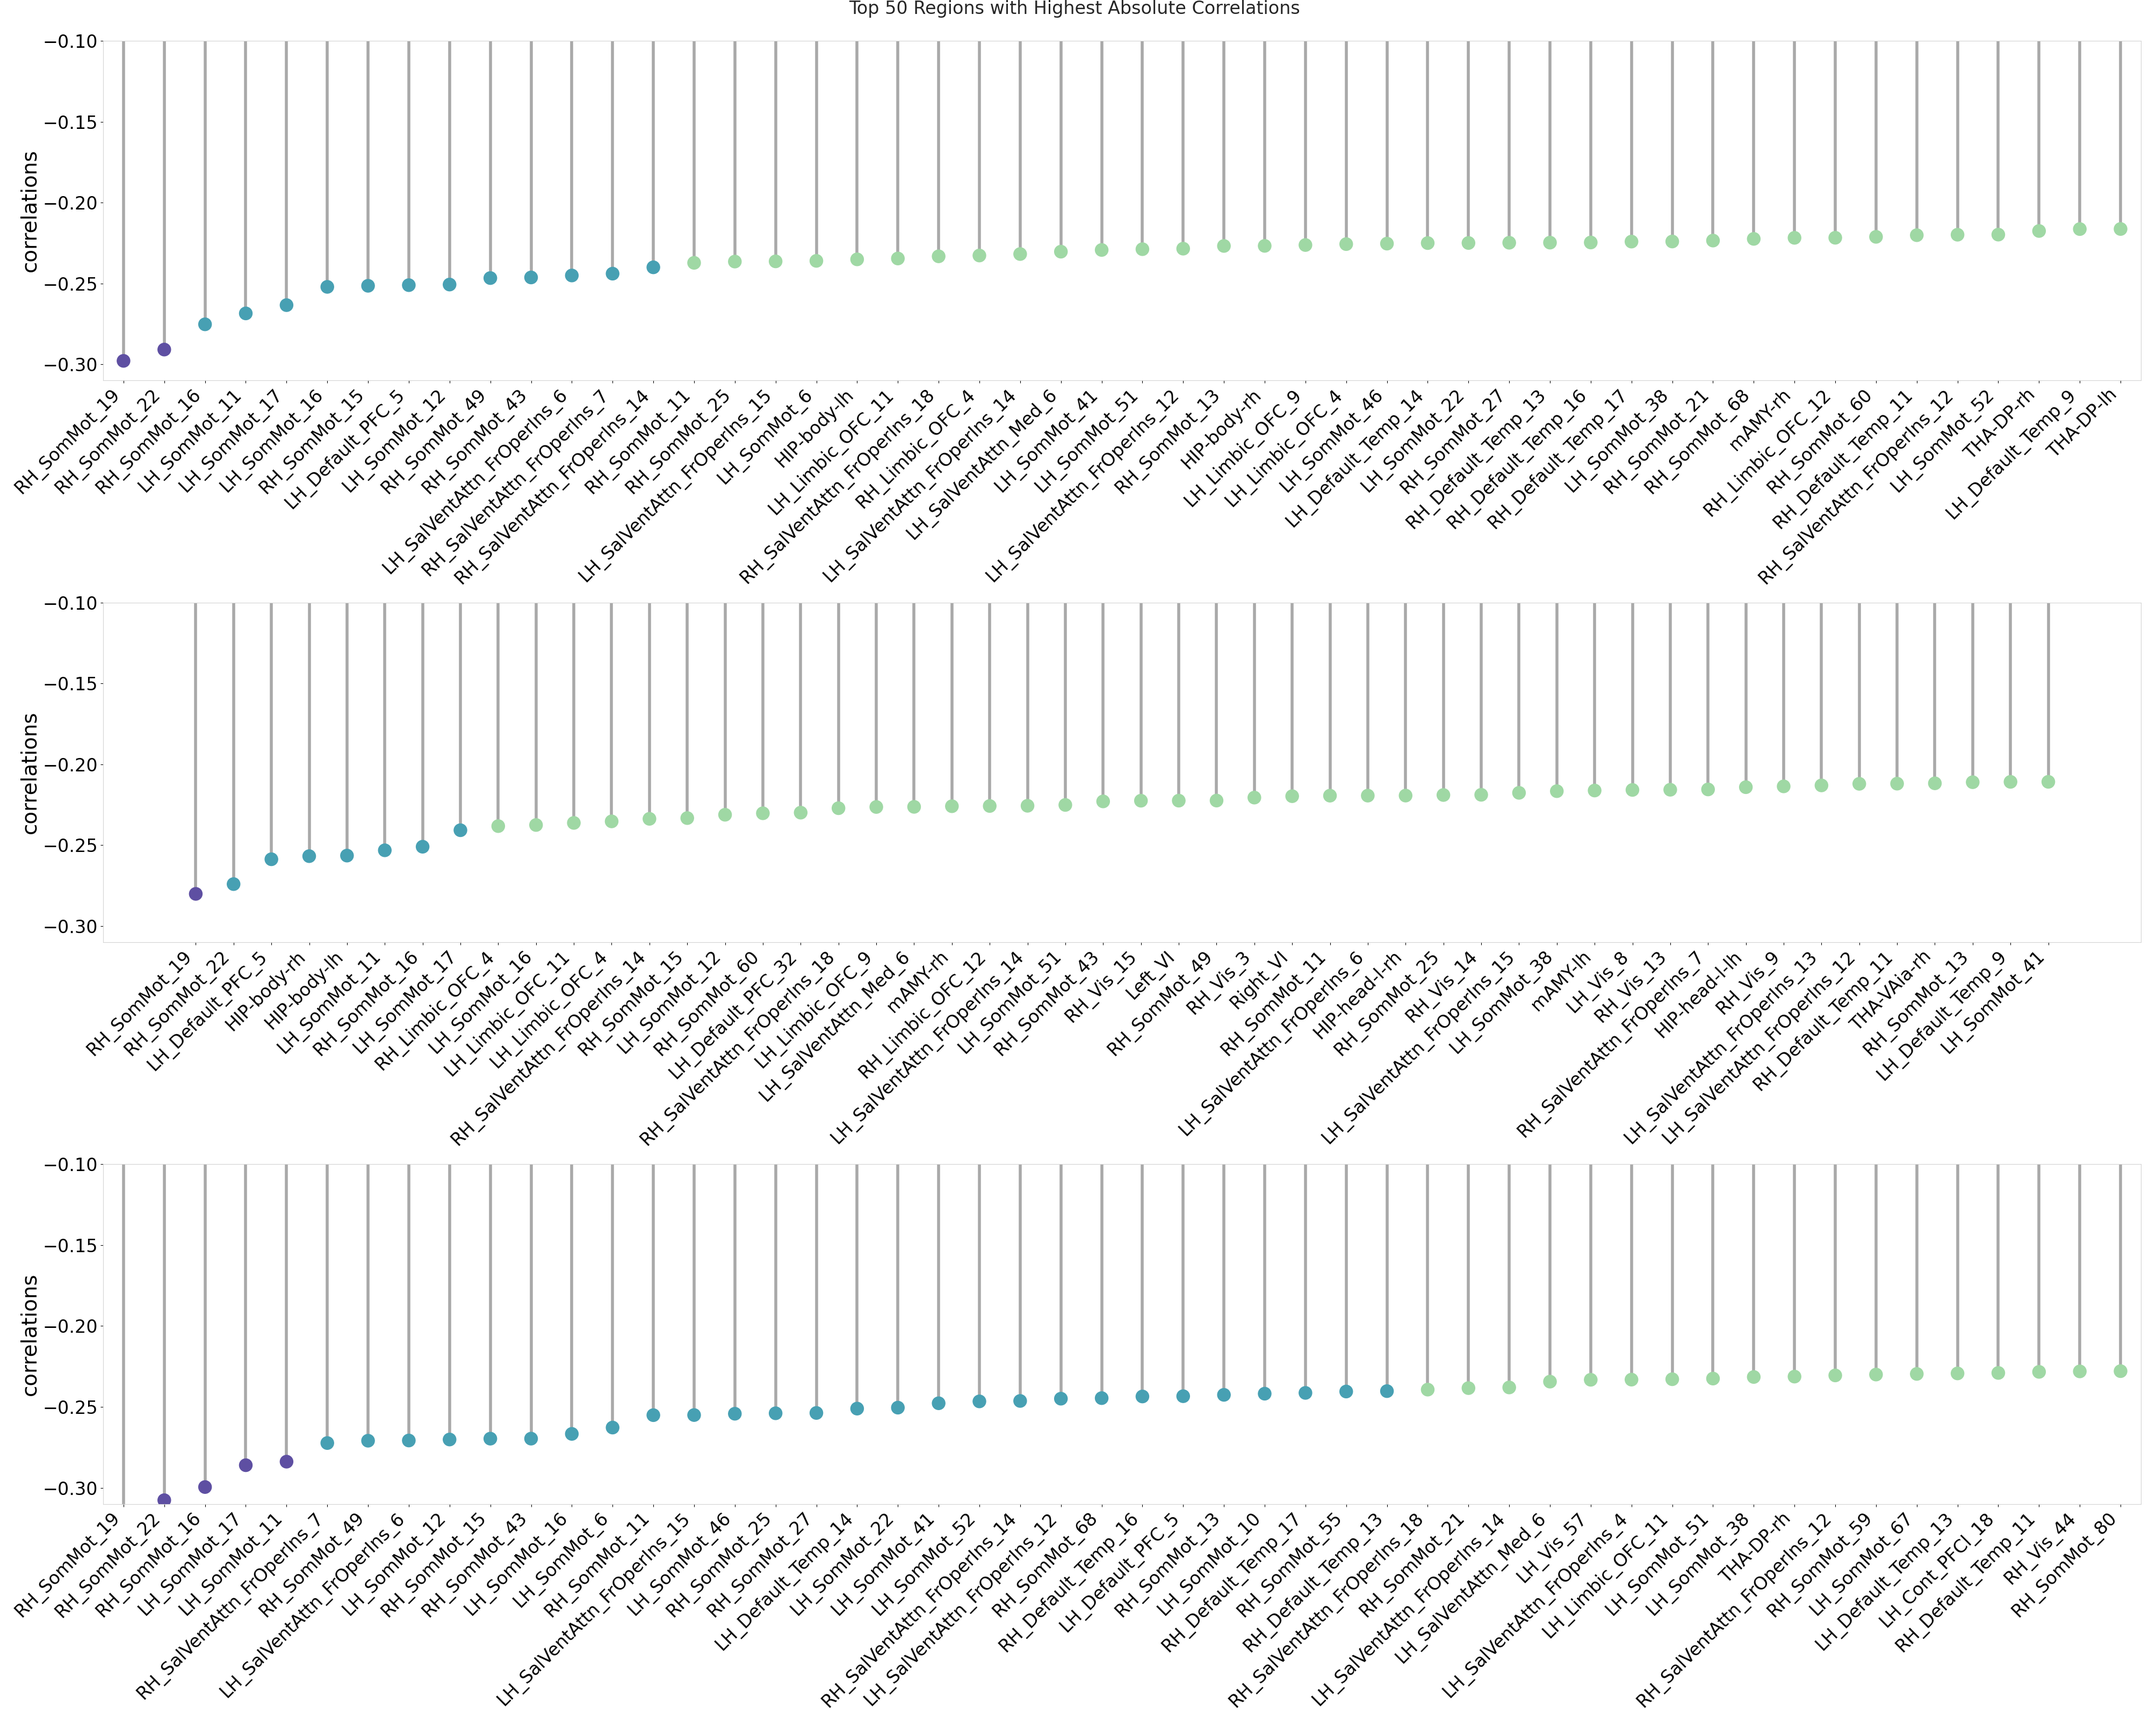
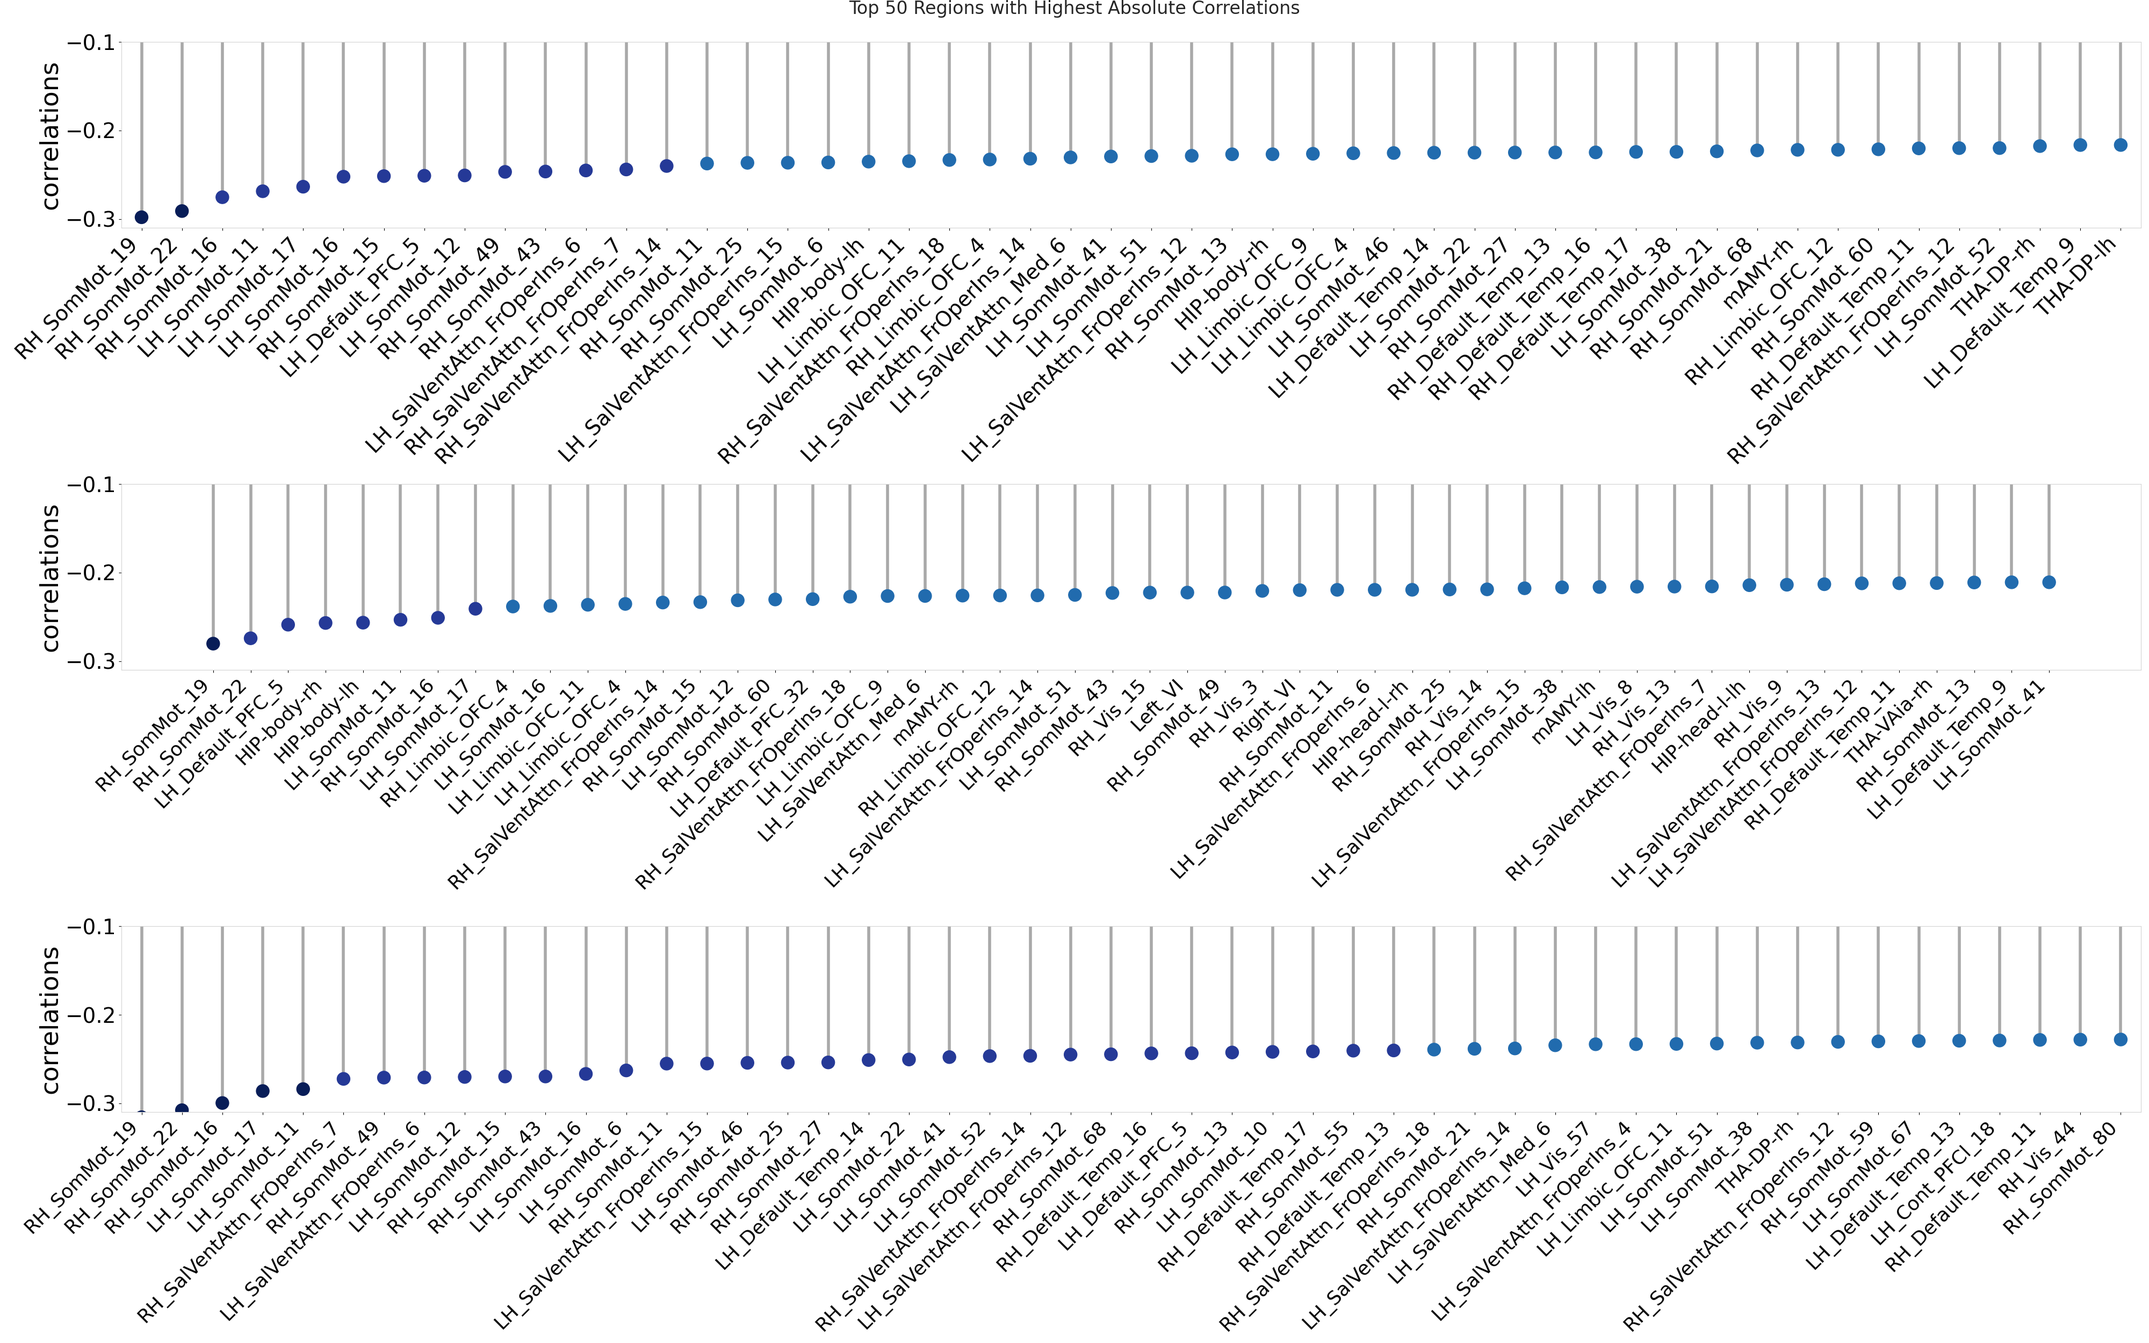
Calculate correlations between behavioural features and true and delta HGS

diff --git a/exec/8_evaluate_trained_models_on_brain/4_plot_correlations_data/plot_all_genders_delta_hgs_regions_correlations_results_top_regions.py b/exec/8_evaluate_trained_models_on_brain/4_plot_correlations_data/plot_all_genders_delta_hgs_regions_correlations_results_top_regions.py
@@ -130,19 +130,19 @@ if corr_target == "hgs_corrected_delta":
     vmax = 0
     threshold = vmax
     # Apply the custom colormap
-    # cmap_custom = plt.cm.YlGnBu_r
-    cmap_custom = plt.cm.Spectral_r
+    cmap_custom = plt.cm.YlGnBu_r
+    # cmap_custom = plt.cm.Spectral_r
     ##########################################################
     # Define the levels (bins) you want within the colormap
     levels = MaxNLocator(nbins=10).tick_values(vmin, vmax)  # Specify your bin edges
     # Create a BoundaryNorm object
     norm = colors.BoundaryNorm(boundaries=levels, ncolors=cmap_custom.N)
     ##########################################################
-    vmin_female = -0.32
-    vmax_female = 0.16
-    threshold_female = 0
-    # Apply the custom colormap
-    cmap_custom_female = plt.cm.Spectral_r
+    # vmin_female = -0.32
+    # vmax_female = 0.16
+    # threshold_female = 0
+    # # Apply the custom colormap
+    # cmap_custom_female = plt.cm.Spectral_r
 ###############################################################################
 # Normalize the 'Correlation' values to the range [-0.32, 0.32] for coloring
 # Ensure that all values are within the range [-0.32, 0.32] before applying normalization
@@ -162,7 +162,7 @@ colors_male = cmap_custom(normalized_values_male)
 
 ###############################################################################
 # Plot the barplot
-fig, ax = plt.subplots(3,1, figsize=(40, 32))
+fig, ax = plt.subplots(3,1, figsize=(40, 25))
 sns.set_style("white")
 ###############################################################################
 # custom_ticks = levels
@@ -239,7 +239,7 @@ for bar in ax[2].patches:
 ###############################################################################
 # Adjust x-tick positions and labels for all subplots
 ax[0].set_xticks(np.arange(len(top_corr_both_gender)))
-ax[0].set_xticklabels(top_corr_both_gender['regions'], rotation=45, ha='right', fontsize=24)
+ax[0].set_xticklabels(top_corr_both_gender['regions'], rotation=45, ha='right', fontsize=28)
 # Step 3: Adjust the x-axis limits to start closer to the y-axis
 # Set the x-axis limits to start from 0.5 and end at len(regions) - 0.5
 ax[0].set_xlim(-0.5, len(top_corr_both_gender) - 0.5)
@@ -250,11 +250,11 @@ ax[0].set_xlim(-0.5, len(top_corr_both_gender) - 0.5)
 # ax[0].tick_params(axis='x', which='both', labeltop=False, labelbottom=True)    
 
 ax[1].set_xticks(np.arange(len(top_corr_male)))
-ax[1].set_xticklabels(top_corr_male['regions'], rotation=45, ha='right', fontsize=24)
+ax[1].set_xticklabels(top_corr_male['regions'], rotation=45, ha='right', fontsize=26)
 ax[0].set_xlim(-0.5, len(top_corr_male) - 0.5)
 
 ax[2].set_xticks(np.arange(len(top_corr_female)))
-ax[2].set_xticklabels(top_corr_female['regions'], rotation=45, ha='right', fontsize=24)
+ax[2].set_xticklabels(top_corr_female['regions'], rotation=45, ha='right', fontsize=26)
 ax[2].set_xlim(-0.5, len(top_corr_female) - 0.5)
 
 ###############################################################################
@@ -262,7 +262,7 @@ if corr_target == "hgs_corrected_delta":
     # Set y-axis limits (you can adjust these values based on your data)
     ymin = -0.3  # Example minimum value
     ymax = -0.1  # Example maximum value
-    ystep = 0.05
+    ystep = 0.1
     # Remove the top and right spines (borders)
     # Move x-ticks to the top and set the label on top
     # ax[0].xaxis.set_ticks_position('top')  # Move ticks to the top
@@ -270,13 +270,13 @@ if corr_target == "hgs_corrected_delta":
 
 ############################################################################### 
 for i in range(3): 
-    ax[i].set_yticks(np.arange(ymin, ymax+0.05, ystep))
+    ax[i].set_yticks(np.arange(ymin, ymax+0.1, ystep))
     ax[i].set_ylim(ymin-0.01, ymax)
     # Set y-tick labels font size
-    ax[i].yaxis.set_tick_params(labelsize=24)
+    ax[i].yaxis.set_tick_params(labelsize=28)
     # Add labels and title
     ax[i].set_xlabel('')
-    ax[i].set_ylabel('correlations', fontsize=28)
+    ax[i].set_ylabel('correlations', fontsize=34)
     
     # ax[i].spines['bottom'].set_visible(False)
     # ax[i].spines['right'].set_visible(False)

diff --git a/exec/8_evaluate_trained_models_on_brain/4_plot_correlations_data/plot_all_genders_true_hgs_regions_correlations_results.py b/exec/8_evaluate_trained_models_on_brain/4_plot_correlations_data/plot_all_genders_true_hgs_regions_correlations_results.py
@@ -127,14 +127,14 @@ top_corr_male = df_sorted_male.head(int(n_top_regions))
 ###############################################################################
 if corr_target == "hgs_true":
     vmin = 0.1
-    vmax = 0.15
+    vmax = 0.18
     threshold = vmin
     ##########################################################
     # Apply the custom colormap
-    # cmap_custom = plt.cm.YlOrRd
-    cmap_custom = plt.cm.Spectral_r    
+    cmap_custom = plt.cm.YlOrRd
+    # cmap_custom = plt.cm.Spectral_r    
     # Define the levels (bins) you want within the colormap
-    levels = MaxNLocator(nbins=9).tick_values(vmin, vmax)  # Specify your bin edges
+    levels = MaxNLocator(nbins=10).tick_values(vmin, vmax)  # Specify your bin edges
     # Create a BoundaryNorm object
     norm = colors.BoundaryNorm(boundaries=levels, ncolors=cmap_custom.N)
 ###############################################################################
@@ -157,7 +157,7 @@ colors_male = cmap_custom(normalized_values_male)
 
 ###############################################################################
 # Plot the barplot
-fig, ax = plt.subplots(3,1, figsize=(40, 32))
+fig, ax = plt.subplots(3,1, figsize=(40, 25))
 sns.set_style("white")
 ###############################################################################
 # custom_ticks = levels
@@ -234,11 +234,11 @@ for bar in ax[2].patches:
 ###############################################################################
 # Adjust x-tick positions and labels for all subplots
 ax[0].set_xticks(np.arange(len(top_corr_both_gender)))
-ax[0].set_xticklabels(top_corr_both_gender['regions'], rotation=45, ha='right', fontsize=24)
+ax[0].set_xticklabels(top_corr_both_gender['regions'], rotation=45, ha='right', fontsize=28)
 ax[0].set_xlim(-0.5, len(top_corr_both_gender) - 0.5)
 
 ax[1].set_xticks(np.arange(len(top_corr_male)))
-ax[1].set_xticklabels(top_corr_male['regions'], rotation=45, ha='right', fontsize=24)
+ax[1].set_xticklabels(top_corr_male['regions'], rotation=45, ha='right', fontsize=30)
 ax[0].set_xlim(-0.5, len(top_corr_male) - 0.5)
 
 ax[2].set_xticks(np.arange(len(top_corr_female)))
@@ -249,10 +249,10 @@ ax[0].set_xlim(-0.5, len(top_corr_female) - 0.5)
 if corr_target == "hgs_true":
     # Set y-axis limits (you can adjust these values based on your data)
     ymin = 0.1  # Example minimum value
-    ymax = 0.15  # Example maximum value
-    ystep = 0.01
+    ymax = 0.18  # Example maximum value
+    ystep = 0.04
     # Set specific y-axis ticks
-    ax[0].set_yticks(np.arange(ymin, ymax+0.01, ystep))
+    ax[0].set_yticks(np.arange(ymin, ymax+0.04, ystep))
     ax[1].set_yticks(np.arange(ymin, ymax+0.01, ystep))
     ax[2].set_yticks(np.arange(ymin, ymax+0.01, ystep))
     # Remove the top and right spines (borders)
@@ -266,12 +266,12 @@ if corr_target == "hgs_true":
         ax[i].spines['bottom'].set_color('lightgrey')
 ############################################################################### 
 for i in range(3):   
-    ax[i].set_ylim(ymin, ymax+.001)
+    ax[i].set_ylim(ymin, ymax+.004)
     # Set y-tick labels font size
-    ax[i].yaxis.set_tick_params(labelsize=24)
+    ax[i].yaxis.set_tick_params(labelsize=28)
     # Add labels and title
     ax[i].set_xlabel('')
-    ax[i].set_ylabel('correlations', fontsize=28)
+    ax[i].set_ylabel('correlations', fontsize=34)
 ###############################################################################
 fig.suptitle(f'Top {n_top_regions} Regions with Highest Absolute Correlations', fontsize=24, y=1)
 ###############################################################################
